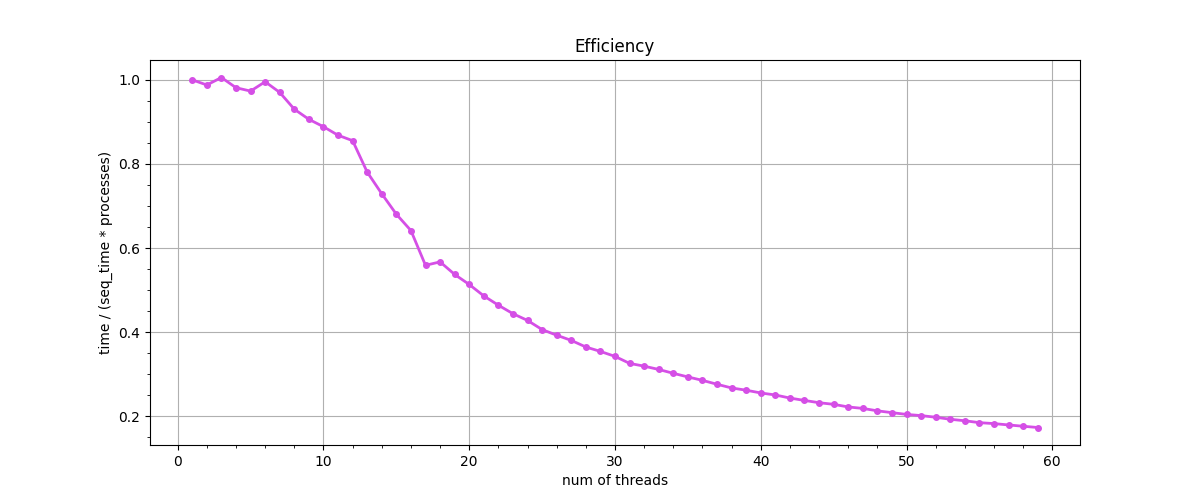
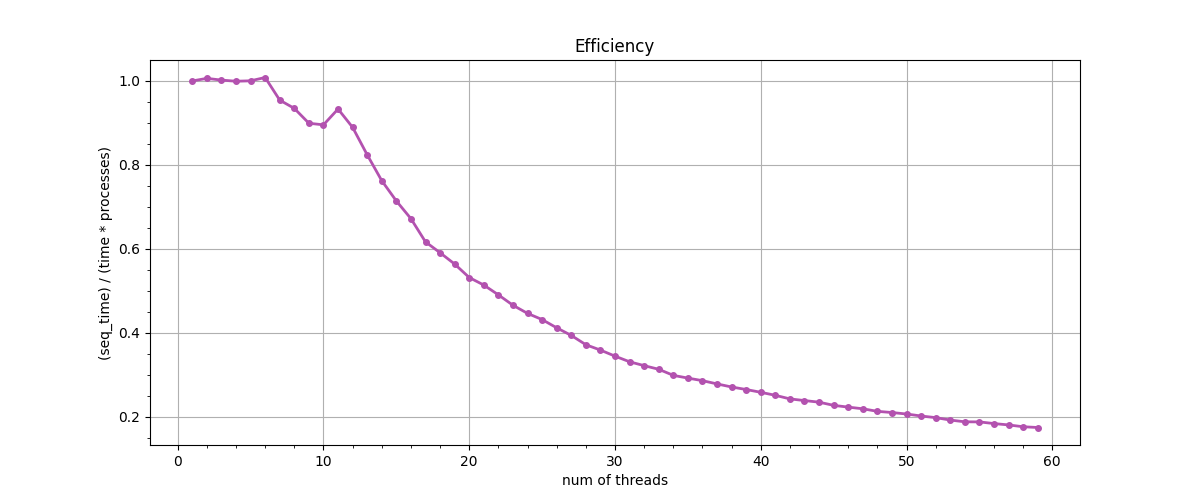
Edited graphs

diff --git a/Integral/acceleration.py b/Integral/acceleration.py
@@ -37,7 +37,7 @@ plt.figure(figsize=[12, 5], dpi=100)
 plt.plot(list(sizes), accelerations, '-o', markersize=4, linewidth=2, label='y1', color = np.random.rand(3))
 
 plt.xlabel("num of threads")
-plt.ylabel("time / seq_time")
+plt.ylabel("seq_time / time")
 plt.title("Acceleration")
 plt.minorticks_on()
 plt.grid()
@@ -52,7 +52,7 @@ plt.savefig('Acceleration.png')
 plt.figure(figsize=[12, 5], dpi=100)
 plt.plot(list(sizes), efficiencies, '-o', markersize=4, linewidth=2, label='y1', color = np.random.rand(3))
 plt.xlabel("num of threads")
-plt.ylabel("time / (seq_time * processes)")
+plt.ylabel("(seq_time) / (time * processes)")
 plt.title("Efficiency")
 plt.minorticks_on()
 plt.grid()
